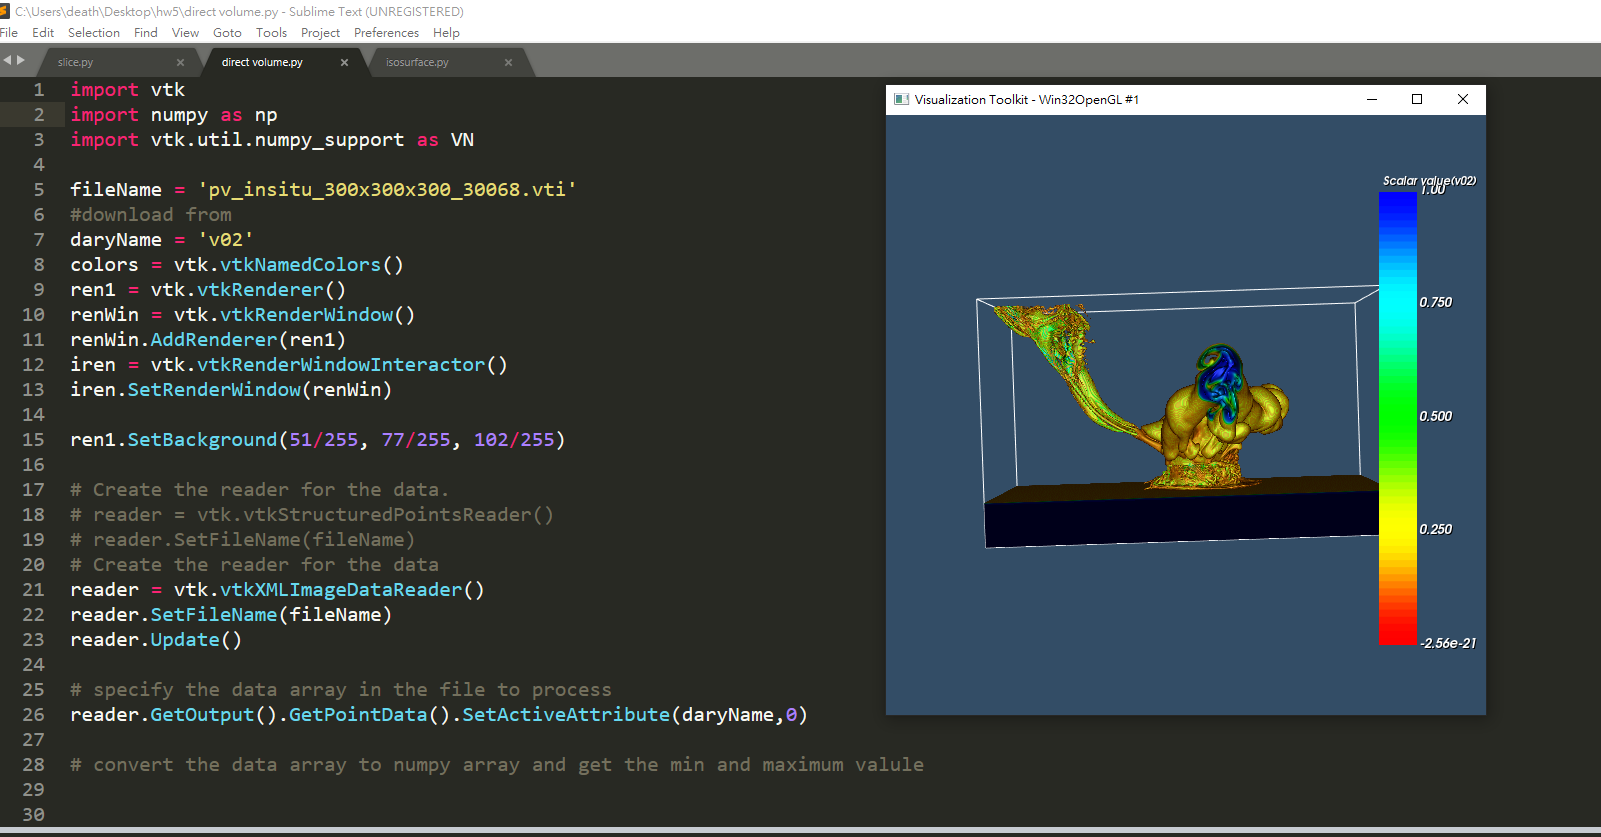
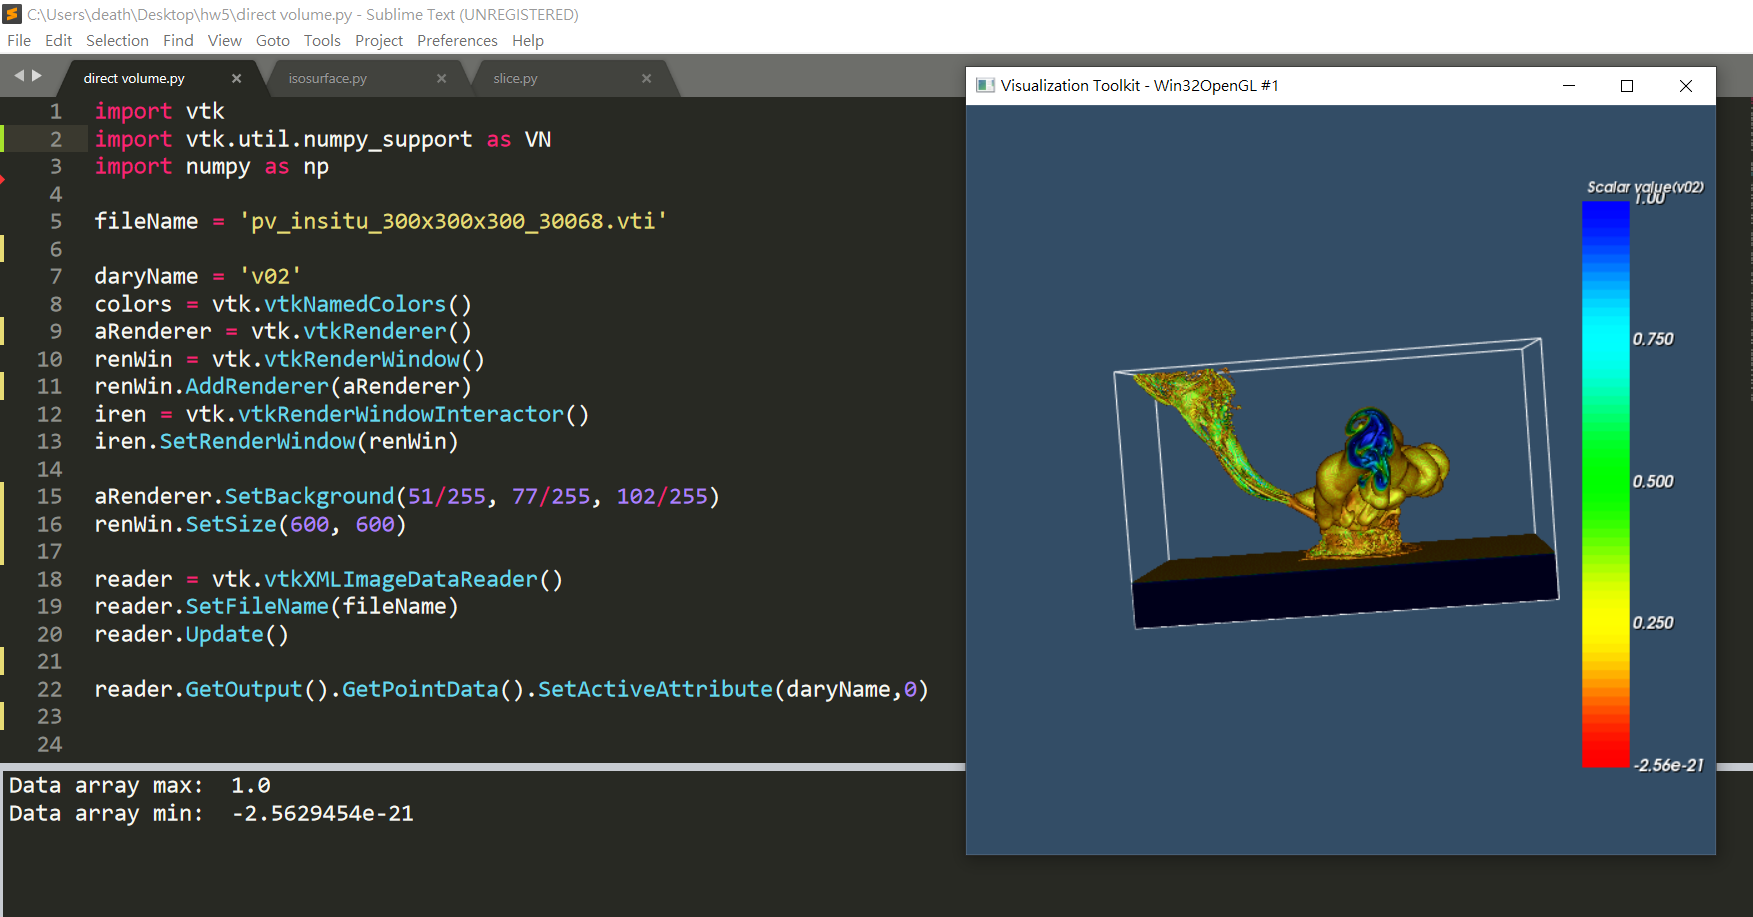
upload

Changed region(s): [[0.0, 0.0, 1.0, 1.0]]

diff --git a/hw5/direct volume.py b/hw5/direct volume.py
@@ -1,38 +1,35 @@
 import vtk
-import numpy as np
 import vtk.util.numpy_support as VN
+import numpy as np
 
 fileName = 'pv_insitu_300x300x300_30068.vti'
-#download from
+
 daryName = 'v02'
 colors = vtk.vtkNamedColors()
-ren1 = vtk.vtkRenderer()
+aRenderer = vtk.vtkRenderer()
 renWin = vtk.vtkRenderWindow()
-renWin.AddRenderer(ren1)
+renWin.AddRenderer(aRenderer)
 iren = vtk.vtkRenderWindowInteractor()
 iren.SetRenderWindow(renWin)
 
-ren1.SetBackground(51/255, 77/255, 102/255)
+aRenderer.SetBackground(51/255, 77/255, 102/255)
+renWin.SetSize(600, 600)
 
-# Create the reader for the data.
-# reader = vtk.vtkStructuredPointsReader()
-# reader.SetFileName(fileName)
-# Create the reader for the data
 reader = vtk.vtkXMLImageDataReader()
 reader.SetFileName(fileName)
 reader.Update()
 
-# specify the data array in the file to process
 reader.GetOutput().GetPointData().SetActiveAttribute(daryName,0)
 
-# convert the data array to numpy array and get the min and maximum valule
 
  
 
 dary = VN.vtk_to_numpy(reader.GetOutput().GetPointData().GetScalars('v02'))
-dMax = np.amax(dary) #data min value
-dMin = np.amin(dary) #data max value
+dMax = np.amax(dary) 
+dMin = np.amin(dary) 
 dRange = dMax - dMin
+print("Data array max: ", np.amax(dary))
+print("Data array min: ", np.amin(dary))
 
 
 # An outline provides context around the data.
@@ -48,26 +45,26 @@ outline.SetMapper(mapOutline)
 outline.GetProperty().SetColor(colors.GetColor3d("White"))
 
 # Create transfer mapping scalar value to opacity.
-opacityTransferFunction = vtk.vtkPiecewiseFunction()
-opacityTransferFunction.AddPoint(dMin, 0.0)
-#opacityTransferFunction.AddPoint(dMin + dRange/2, 0.005)
-opacityTransferFunction.AddPoint(dMax, 0.001) ###### very small, still
+opacityT = vtk.vtkPiecewiseFunction()
+opacityT.AddPoint(dMin, 0.0)
+#opacityT.AddPoint(dMin + dRange/2, 0.005)
+opacityT.AddPoint(dMax, 0.001) ###### very small, still
 
 
 # Create transfer mapping scalar value to color.
-colorTransferFunction = vtk.vtkColorTransferFunction()
-colorTransferFunction.AddRGBPoint(dMin, 1.0, 0.0, 0.0)
-colorTransferFunction.AddRGBPoint(dMin + (dRange/4)*1, 1.0, 1.0, 0.0)
-colorTransferFunction.AddRGBPoint(dMin + (dRange/4)*2, 0.0, 1.0, 0.0)
-colorTransferFunction.AddRGBPoint(dMin + (dRange/4)*3, 0.0, 1.0, 1.0)
-colorTransferFunction.AddRGBPoint(dMin + (dRange/4)*4, 0.0, 0.0, 1.0)
+colorT = vtk.vtkColorTransferFunction()
+colorT.AddRGBPoint(dMin, 1.0, 0.0, 0.0)
+colorT.AddRGBPoint(dMin + (dRange/4)*1, 1.0, 1.0, 0.0)
+colorT.AddRGBPoint(dMin + (dRange/4)*2, 0.0, 1.0, 0.0)
+colorT.AddRGBPoint(dMin + (dRange/4)*3, 0.0, 1.0, 1.0)
+colorT.AddRGBPoint(dMin + (dRange/4)*4, 0.0, 0.0, 1.0)
 
 # The property describes how the data will look.
-volumeProperty = vtk.vtkVolumeProperty()
-volumeProperty.SetColor(colorTransferFunction)
-volumeProperty.SetScalarOpacity(opacityTransferFunction)
-volumeProperty.ShadeOn()
-volumeProperty.SetInterpolationTypeToLinear()
+volumePr = vtk.vtkVolumeProperty()
+volumePr.SetColor(colorT)
+volumePr.SetScalarOpacity(opacityT)
+volumePr.ShadeOn()
+volumePr.SetInterpolationTypeToLinear()
 
 # The mapper / ray cast function know how to render the data.
 
@@ -96,16 +93,31 @@ scalar_bar_widget.On()
 # can be used to position/orient the volume.
 volume = vtk.vtkVolume()
 volume.SetMapper(volumeMapper)
-volume.SetProperty(volumeProperty)
+volume.SetProperty(volumePr)
 
-ren1.AddVolume(volume)
-ren1.AddActor(outline)
-ren1.GetActiveCamera().Azimuth(45)
-ren1.GetActiveCamera().Elevation(30)
-ren1.ResetCameraClippingRange()
-ren1.ResetCamera()
+aRenderer.AddVolume(volume)
+aRenderer.AddActor(outline)
 
-renWin.SetSize(600, 600)
+
+aCamera = vtk.vtkCamera()
+aCamera.SetViewUp(0, 0, -1)
+aCamera.SetPosition(0, -1, 0)
+aCamera.SetFocalPoint(0, 0, 0)
+aCamera.ComputeViewPlaneNormal()
+aCamera.Azimuth(30.0)
+aCamera.Elevation(30.0)
+
+aRenderer.SetActiveCamera(aCamera)
+
 renWin.Render()
 
+aRenderer.ResetCamera()
+aCamera.Dolly(1.5)
+
+aRenderer.ResetCameraClippingRange()
+
+# Interact with the data.
+renWin.Render()
+iren.Initialize()
 iren.Start()
+

diff --git a/hw5/isosurface.py b/hw5/isosurface.py
@@ -1,39 +1,33 @@
 import vtk
-import numpy as np
 import vtk.util.numpy_support as VN
+import numpy as np
 
 fileName = 'pv_insitu_300x300x300_30068.vti'
-#download from
+
 daryName = 'v02'
 colors = vtk.vtkNamedColors()
-ren1 = vtk.vtkRenderer()
+aRenderer = vtk.vtkRenderer()
 renWin = vtk.vtkRenderWindow()
-renWin.AddRenderer(ren1)
+renWin.AddRenderer(aRenderer)
 iren = vtk.vtkRenderWindowInteractor()
 iren.SetRenderWindow(renWin)
 
-ren1.SetBackground(51/255, 77/255, 102/255)
+aRenderer.SetBackground(51/255, 77/255, 102/255)
+renWin.SetSize(600, 600)
 
-# Create the reader for the data.
-# reader = vtk.vtkStructuredPointsReader()
-# reader.SetFileName(fileName)
-# Create the reader for the data
 reader = vtk.vtkXMLImageDataReader()
 reader.SetFileName(fileName)
 reader.Update()
 
-# specify the data array in the file to process
 reader.GetOutput().GetPointData().SetActiveAttribute(daryName,0)
-
-# convert the data array to numpy array and get the min and maximum valule
-
  
 
 dary = VN.vtk_to_numpy(reader.GetOutput().GetPointData().GetScalars('v02'))
-dMax = np.amax(dary) #data min value
-dMin = np.amin(dary) #data max value
+dMax = np.amax(dary) 
+dMin = np.amin(dary) 
 dRange = dMax - dMin
-
+print("Data array max: ", np.amax(dary))
+print("Data array min: ", np.amin(dary))
 
 # An outline provides context around the data.
 outlineData = vtk.vtkOutlineFilter()
@@ -48,22 +42,21 @@ outline.SetMapper(mapOutline)
 outline.GetProperty().SetColor(colors.GetColor3d("White"))
 
 # Create transfer mapping scalar value to opacity.
-opacityTransferFunction = vtk.vtkPiecewiseFunction()
-opacityTransferFunction.AddPoint(dMin, 0.0)
-# opacityTransferFunction.AddPoint(dMin + dRange/2, 0.005)
-opacityTransferFunction.AddPoint(dMax, 0.001) ###### very small, still
+opacityT = vtk.vtkPiecewiseFunction()
+opacityT.AddPoint(dMin, 0.0)
+opacityT.AddPoint(dMax, 0.001) 
 
 
 # Create transfer mapping scalar value to color.
-colorTransferFunction = vtk.vtkColorTransferFunction()
-colorTransferFunction.AddRGBPoint(dMin, 1.0, 1.0, 0.7)
+colorT = vtk.vtkColorTransferFunction()
+colorT.AddRGBPoint(dMin, 1.0, 1.0, 0.7)
 
 # The property describes how the data will look.
-volumeProperty = vtk.vtkVolumeProperty()
-volumeProperty.SetColor(colorTransferFunction)
-volumeProperty.SetScalarOpacity(opacityTransferFunction)
-volumeProperty.ShadeOn()
-volumeProperty.SetInterpolationTypeToLinear()
+volumePr = vtk.vtkVolumeProperty()
+volumePr.SetColor(colorT)
+volumePr.SetScalarOpacity(opacityT)
+volumePr.ShadeOn()
+volumePr.SetInterpolationTypeToLinear()
 
 # The mapper / ray cast function know how to render the data.
 
@@ -74,16 +67,29 @@ volumeMapper.SetInputConnection(reader.GetOutputPort())
 # can be used to position/orient the volume.
 volume = vtk.vtkVolume()
 volume.SetMapper(volumeMapper)
-volume.SetProperty(volumeProperty)
+volume.SetProperty(volumePr)
 
-ren1.AddVolume(volume)
-ren1.AddActor(outline)
-ren1.GetActiveCamera().Azimuth(45)
-ren1.GetActiveCamera().Elevation(30)
-ren1.ResetCameraClippingRange()
-ren1.ResetCamera()
+aRenderer.AddVolume(volume)
+aRenderer.AddActor(outline)
 
-renWin.SetSize(600, 600)
+aCamera = vtk.vtkCamera()
+aCamera.SetViewUp(0, 0, -1)
+aCamera.SetPosition(0, -1, 0)
+aCamera.SetFocalPoint(0, 0, 0)
+aCamera.ComputeViewPlaneNormal()
+aCamera.Azimuth(30.0)
+aCamera.Elevation(30.0)
+
+aRenderer.SetActiveCamera(aCamera)
+
 renWin.Render()
 
+aRenderer.ResetCamera()
+aCamera.Dolly(1.5)
+
+aRenderer.ResetCameraClippingRange()
+
+# Interact with the data.
+renWin.Render()
+iren.Initialize()
 iren.Start()
